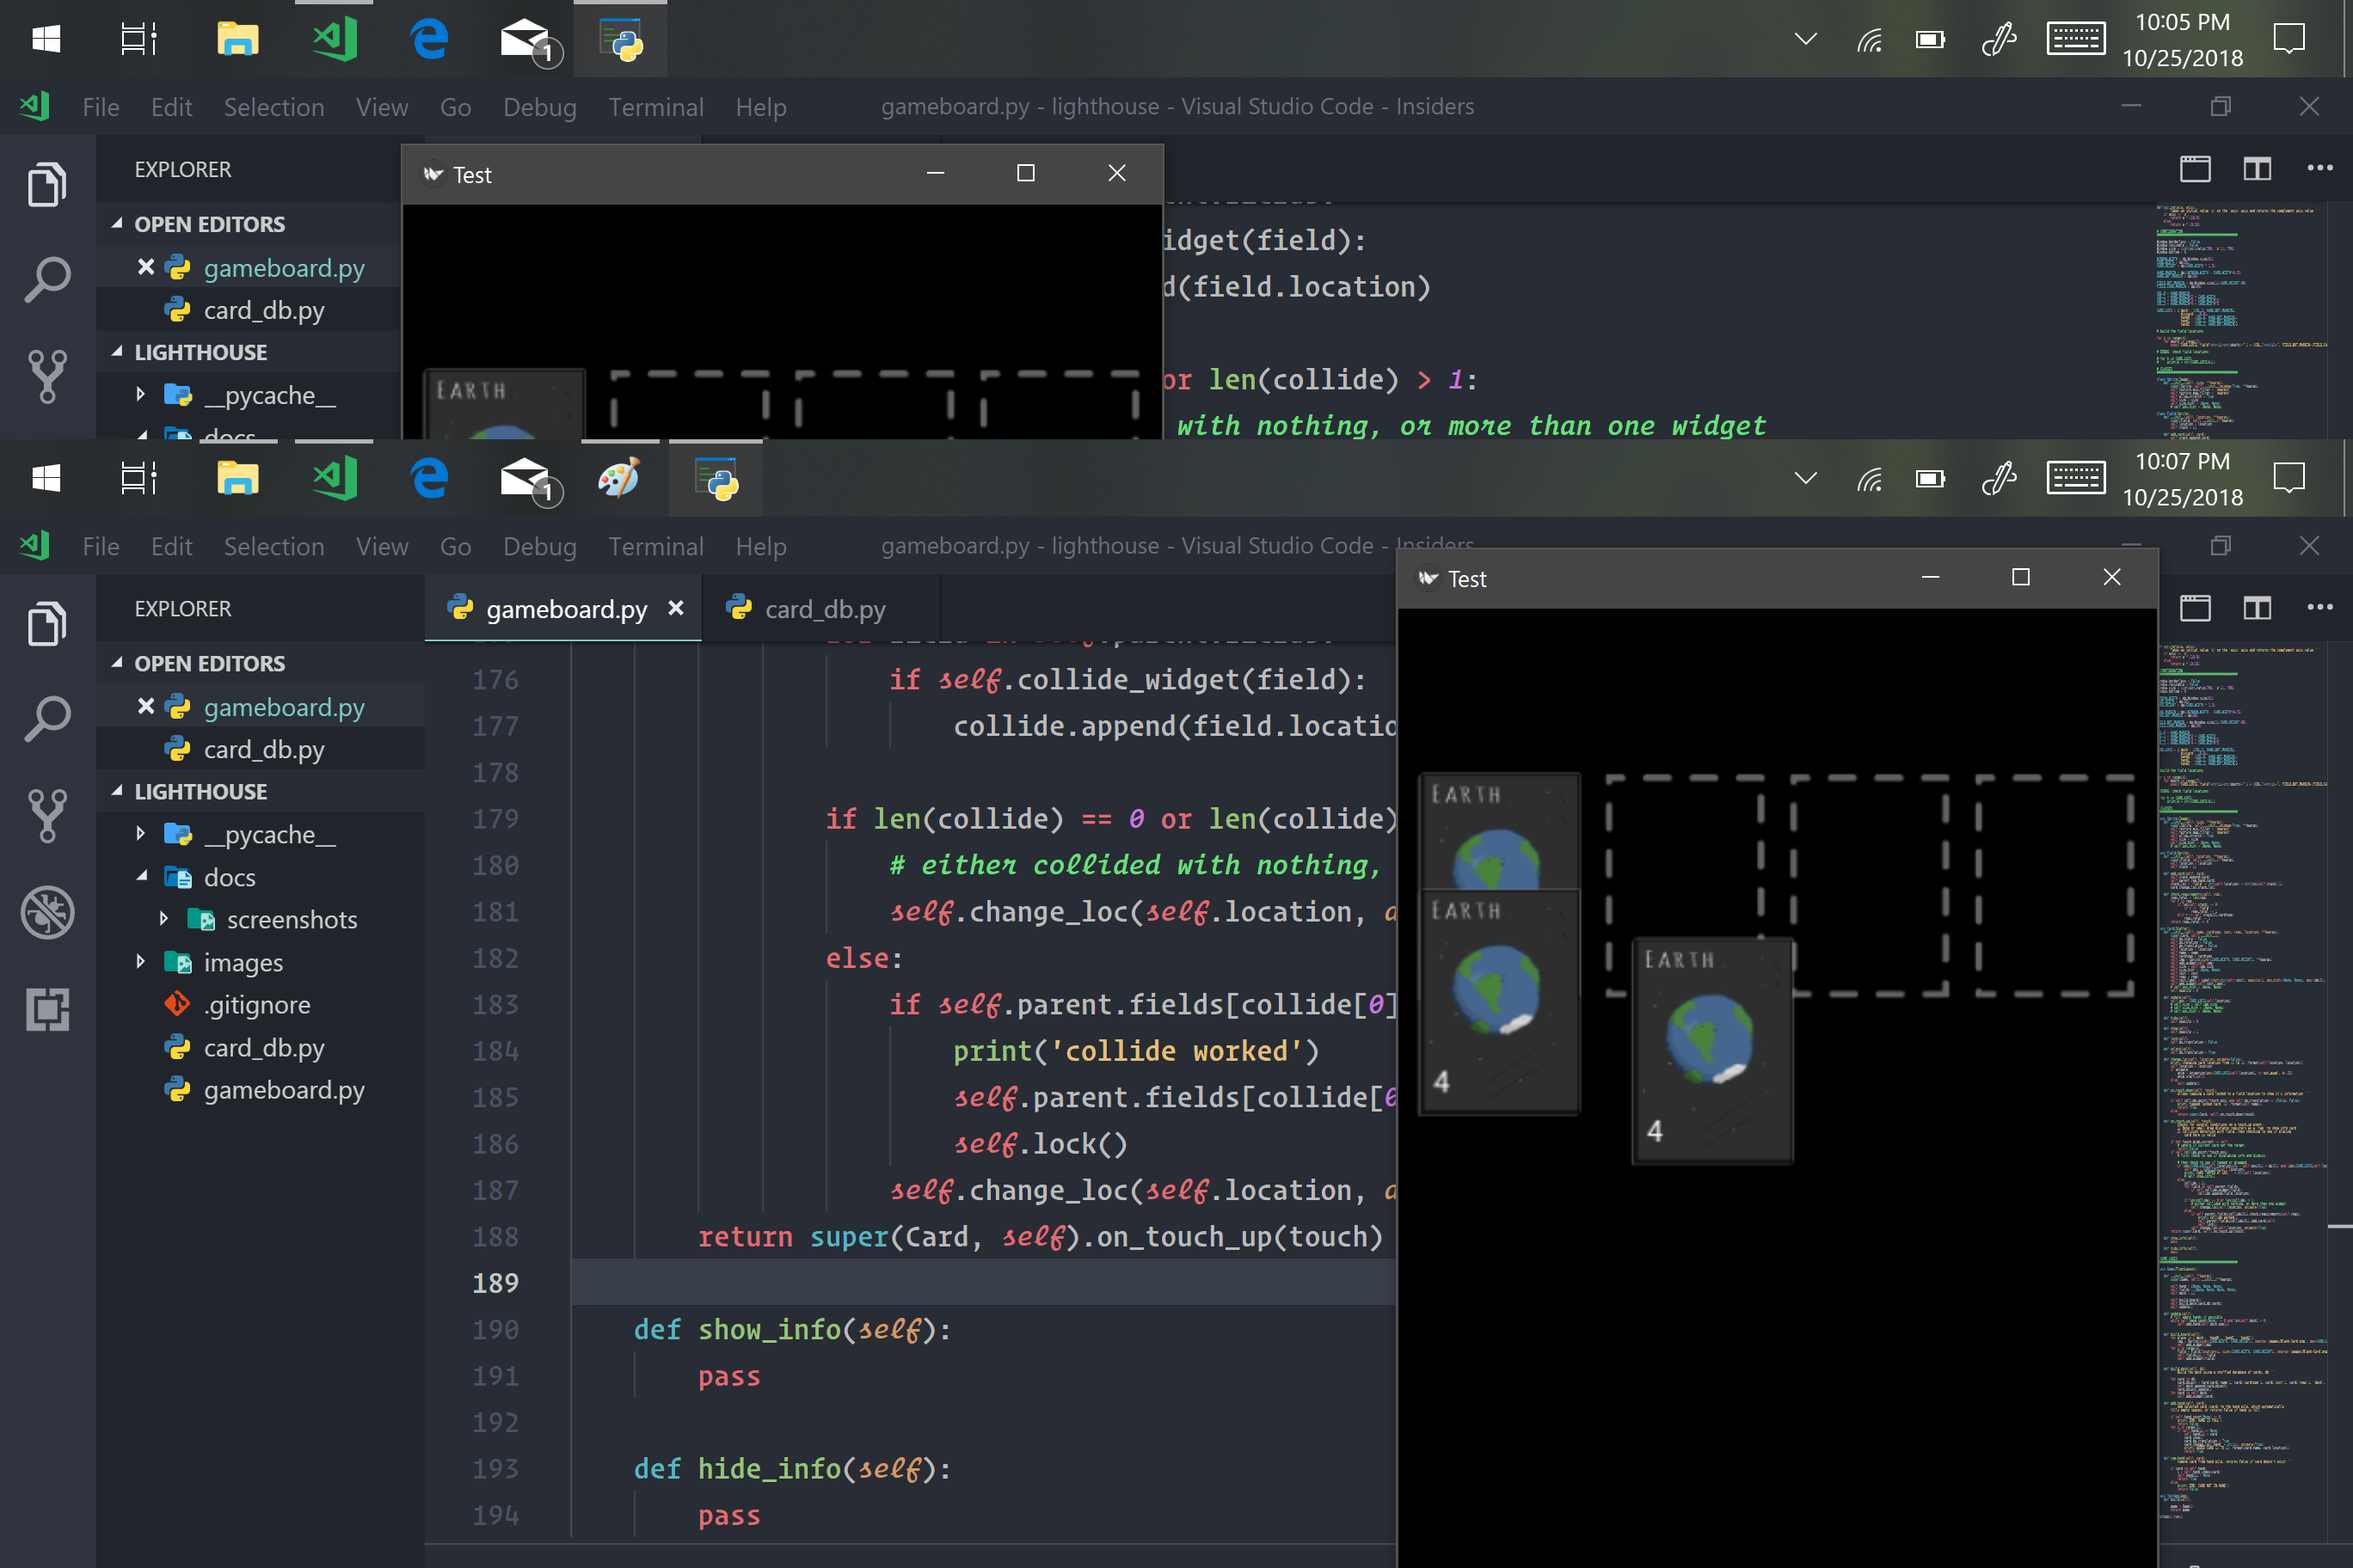
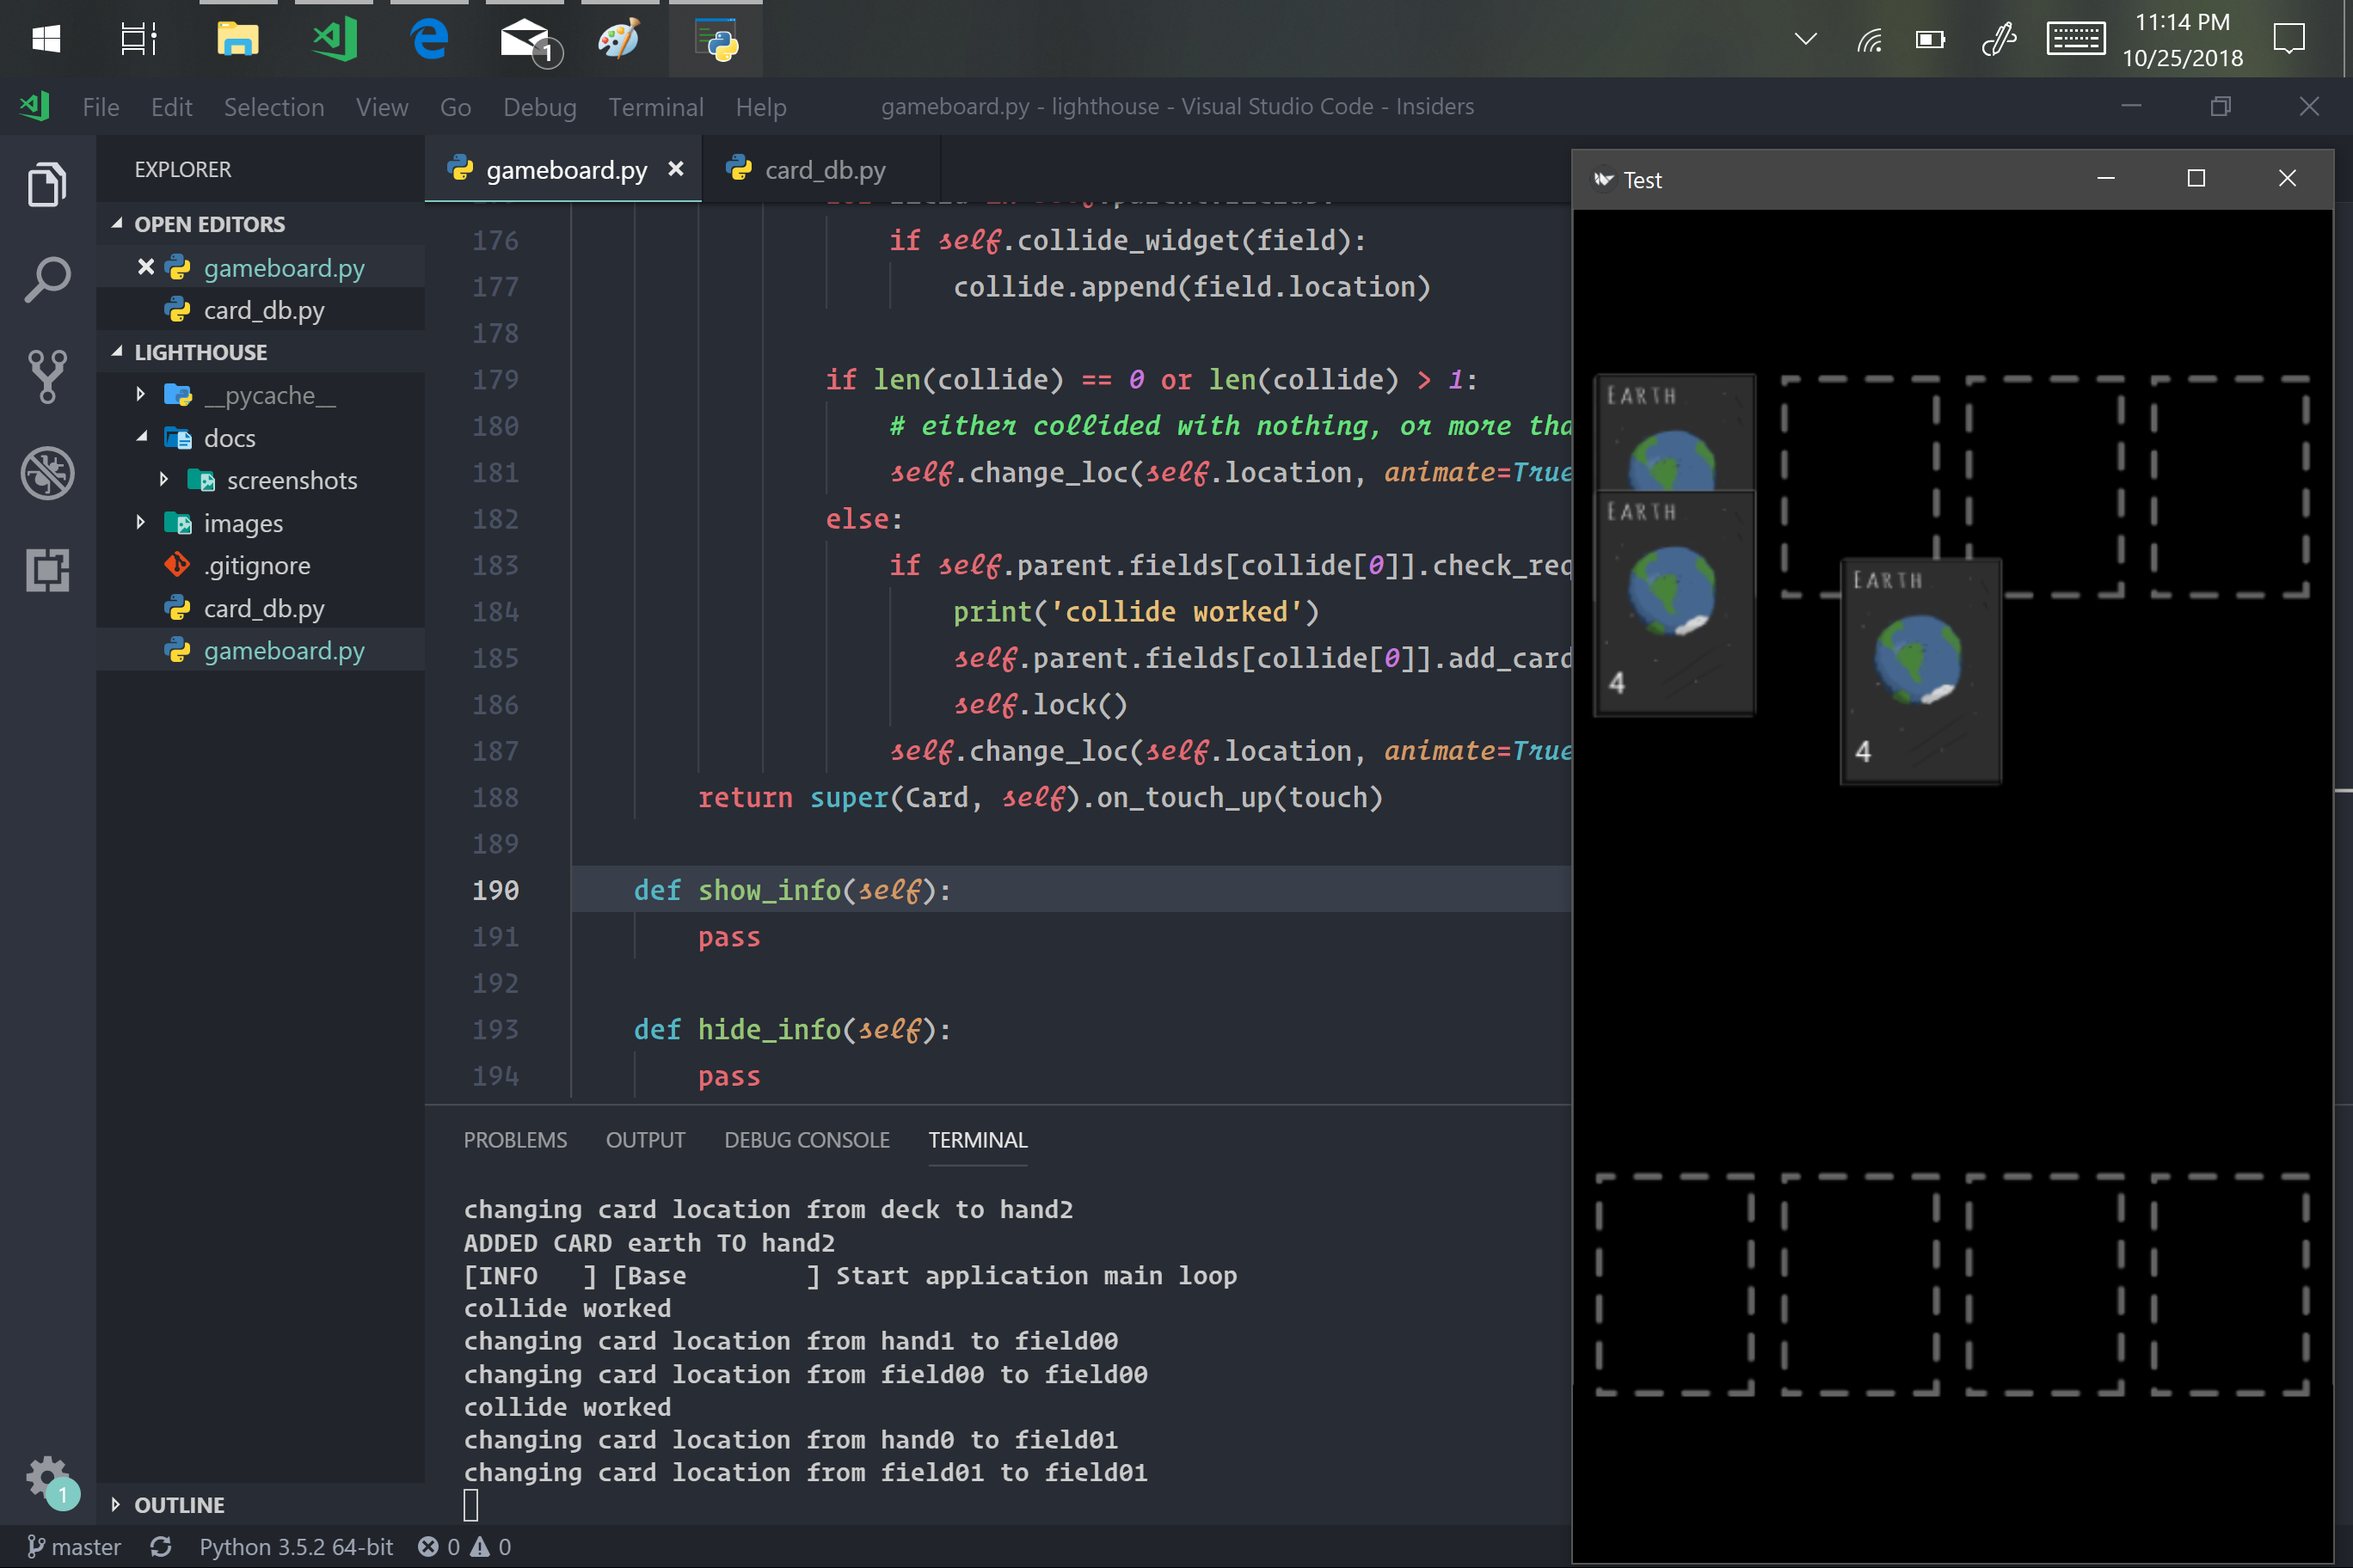
Changes to artwork Added ability to tap card to show enlarged version with flavor text Bug fixes

diff --git a/gameboard.py b/gameboard.py
@@ -27,7 +27,7 @@ def scr_ratio(a, axis):
 
 Window.borderless = False
 Window.resizable = False
-Window.size = (int(scr_ratio(700, 'y')), 700)
+Window.size = (int(scr_ratio(725, 'y')), 725)
 Window.bottom = 0
 
 WINDOW_WIDTH = dp(Window.size[0])
@@ -98,7 +98,7 @@ class Field(Sprite):
         return reqs_total == 0
 
 class Card(Scatter):
-    def __init__(self, name, cardtype, cost, reqs, location, **kwargs):
+    def __init__(self, name, img_src, cardtype, cost, reqs, location, **kwargs):
         super(Card, self).__init__()
         self.do_scale = False
         self.do_rotation = False
@@ -106,9 +106,10 @@ class Card(Scatter):
         self.location = location
         self.name = name
         self.cardtype = cardtype
-        self.img = Sprite(size=(CARD_WIDTH, CARD_HEIGHT), **kwargs)
-        self.add_widget(self.img)
-        self.size = self.img.size
+        self.img_src = img_src
+        self.img_sprite = Sprite(size=(CARD_WIDTH, CARD_HEIGHT), source=self.img_src)
+        self.add_widget(self.img_sprite)
+        self.size = self.img_sprite.size
         self.size_hint = (None, None)
         self.cost = cost
         self.reqs = reqs
@@ -149,6 +150,7 @@ class Card(Scatter):
 
         if self.collide_point(*touch.pos) and self.do_translation == (False, False):
             print('tapped locked card: {}'.format(self.name))
+            self.show_info()
             return True
         else:
             return super(Card, self).on_touch_down(touch)
@@ -162,14 +164,14 @@ class Card(Scatter):
         if not touch.grab_current == self:
             # ignore if current card not the target
             return False
-        if self.collide_point(*touch.pos):
+        if self.collide_point(*touch.pos) and self.do_translation != (False, False):
             # first check to see if displaying info and dismiss
 
             # then check to see if tapped or dragged:
             if (abs(CARD_LOCS[self.location][0] - self.pos[0]) < dp(5)) and (abs(CARD_LOCS[self.location][1] - self.pos[1]) < dp(5)):
                 self.pos = CARD_LOCS[self.location]
                 print('CARD TAPPED AT LOC: ' + str(self.location))
-                # self.show_info()
+                self.show_info()
             else:
                 collide = []
                 for field in self.parent.fields:
@@ -177,21 +179,42 @@ class Card(Scatter):
                         collide.append(field.location)
 
                 if len(collide) == 0 or len(collide) > 1:
-                    # either collided with nothing, or more than one widget
+                    # either collided with nothing or more than one, so animate back to 
                     self.change_loc(self.location, animate=True)
                 else:
+                    # check to see if current card meets requirements in the field,
+                    # and add card to stack and lock, or animate back to place
                     if self.parent.fields[collide[0]].check_requirements(self.reqs):
-                        print('collide worked')
                         self.parent.fields[collide[0]].add_card(self)
                         self.lock()
                     self.change_loc(self.location, animate=True)
         return super(Card, self).on_touch_up(touch)
 
     def show_info(self):
-        pass
+        self.popup = Info_card(self)
+        self.parent.add_widget(self.popup)
+        for child in self.parent.children:
+            child.disabled = True
 
     def hide_info(self):
-        pass
+        self.parent.remove_widget(self.popup)
+        for child in self.parent.children:
+            child.disabled = False
+
+class Info_card(FloatLayout):
+    def __init__(self, card, **kwargs):
+        super(Info_card, self).__init__(**kwargs)
+        self.card = card
+        self.img = Sprite((CARD_WIDTH*3.5,CARD_HEIGHT*3.5), pos_hint={'center_x': .5, 'center_y':.5}, source=self.card.img_src)
+        self.flavor = Label(text='This is some flavor text', width=CARD_WIDTH*3.5, pos_hint={'center_x': .5, 'center_y':.35})
+        self.add_widget(self.img)
+        self.add_widget(self.flavor)
+
+    def on_touch_down(self, touch):
+        if self.collide_point(*touch.pos):
+            self.card.hide_info()
+        return False
+
 
 # GAME LOGIC
 ###############################################
@@ -204,6 +227,9 @@ class Game(FloatLayout):
         self.hand = [None, None, None]
         self.fields = [None, None, None, None]
         self.deck = []
+
+        img = Sprite(size=(Window.width, Window.height), source='images/Galaxy-bg.png', pos=(0,0))
+        self.add_widget(img)
 
         self.build_board()
         self.build_deck(card_db.cards)
@@ -229,11 +255,12 @@ class Game(FloatLayout):
         ''' Build the deck using a shuffled database of cards, db '''
         
         for card in db:
-            card_object = Card(card['name'], card['cardtype'], card['cost'], card['reqs'], 'deck', source=card['img'])
+            card_object = Card(card['name'], card['img'], card['cardtype'], card['cost'], card['reqs'], 'deck')
             self.deck.append(card_object)
             card_object.update()
         for card in self.deck:
             self.add_widget(card)
+
 
     def add_hand(self, card):
         ''' Add selected card (card) to the hand pile, which automatically
@@ -250,6 +277,7 @@ class Game(FloatLayout):
                 card.change_loc('hand' + str(i), animate=True)
                 print('ADDED CARD {} TO {}'.format(card.name, card.location))
                 return True
+
 
     def rem_hand(self, card):
         ''' remove card from hand pile, returns False if card doesn't exist '''
